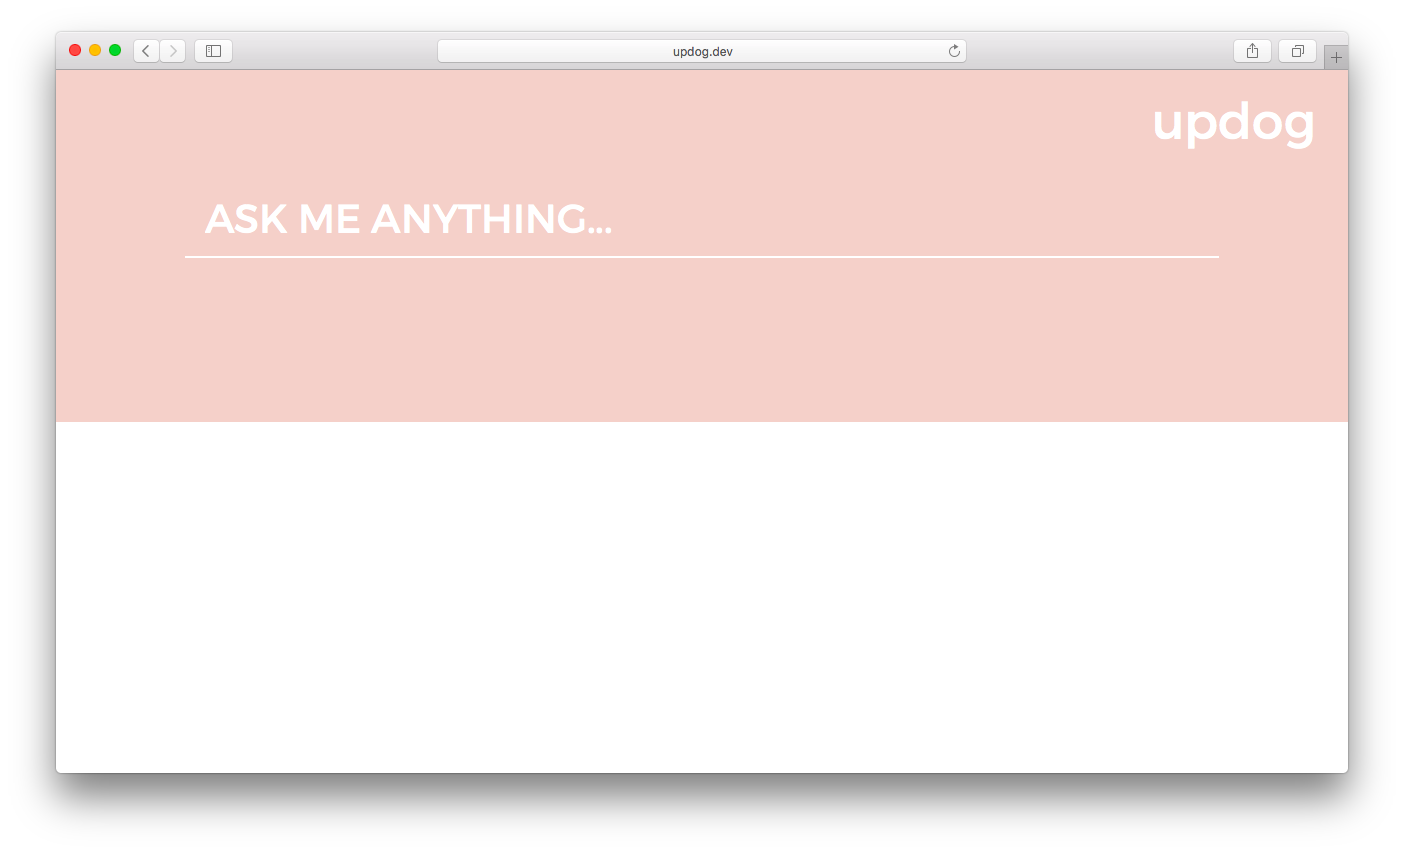
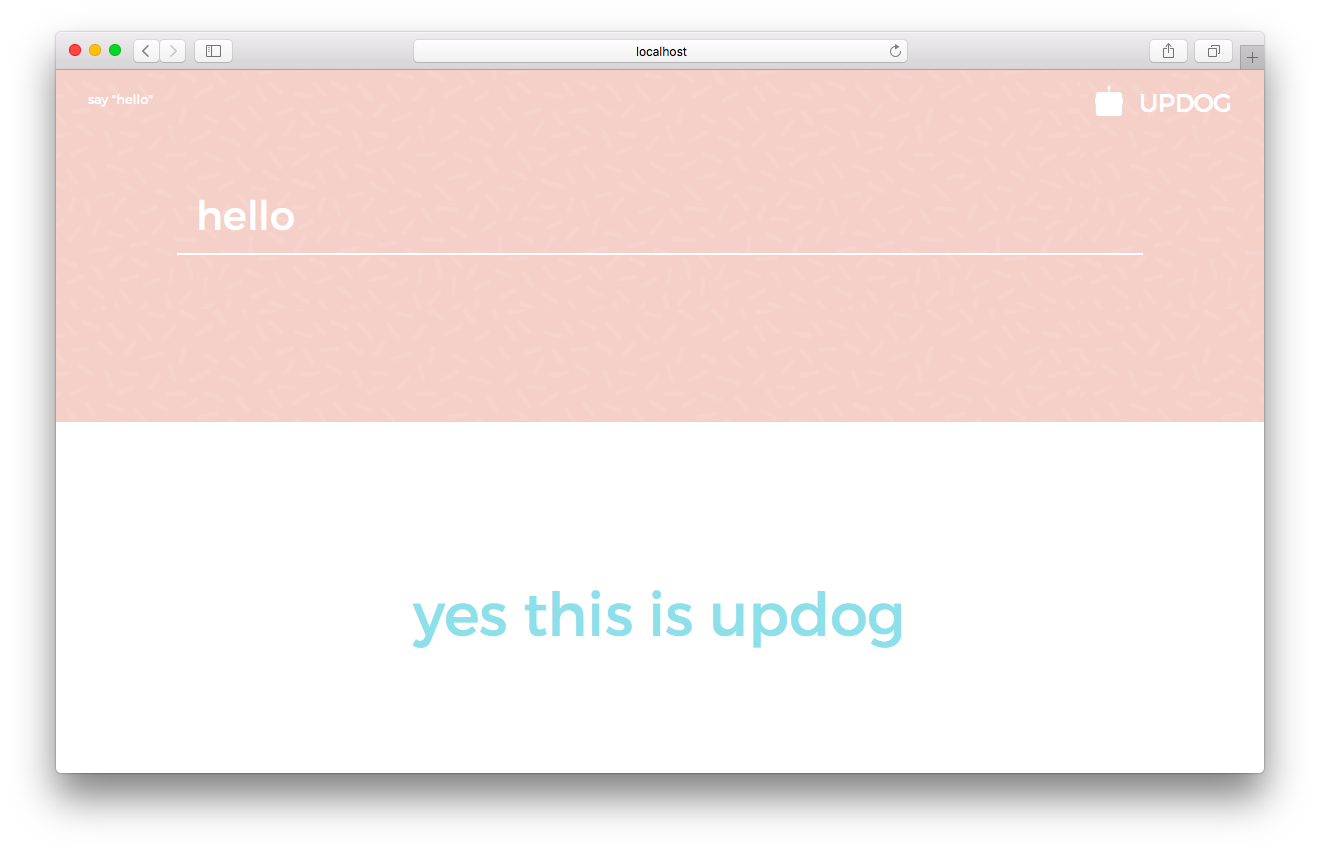
updated reademe

diff --git a/README.md b/README.md
@@ -1,3 +1,4 @@
-##wut is updog
-### updog is my first attempt at making a bot
+ **updog** is a simple message bot built using wit.ai
+![image](/public/images/landing.png)
 ![image](/public/images/home.png)
+Check it out [datboi.com](http://datboi.com/ "Title").
